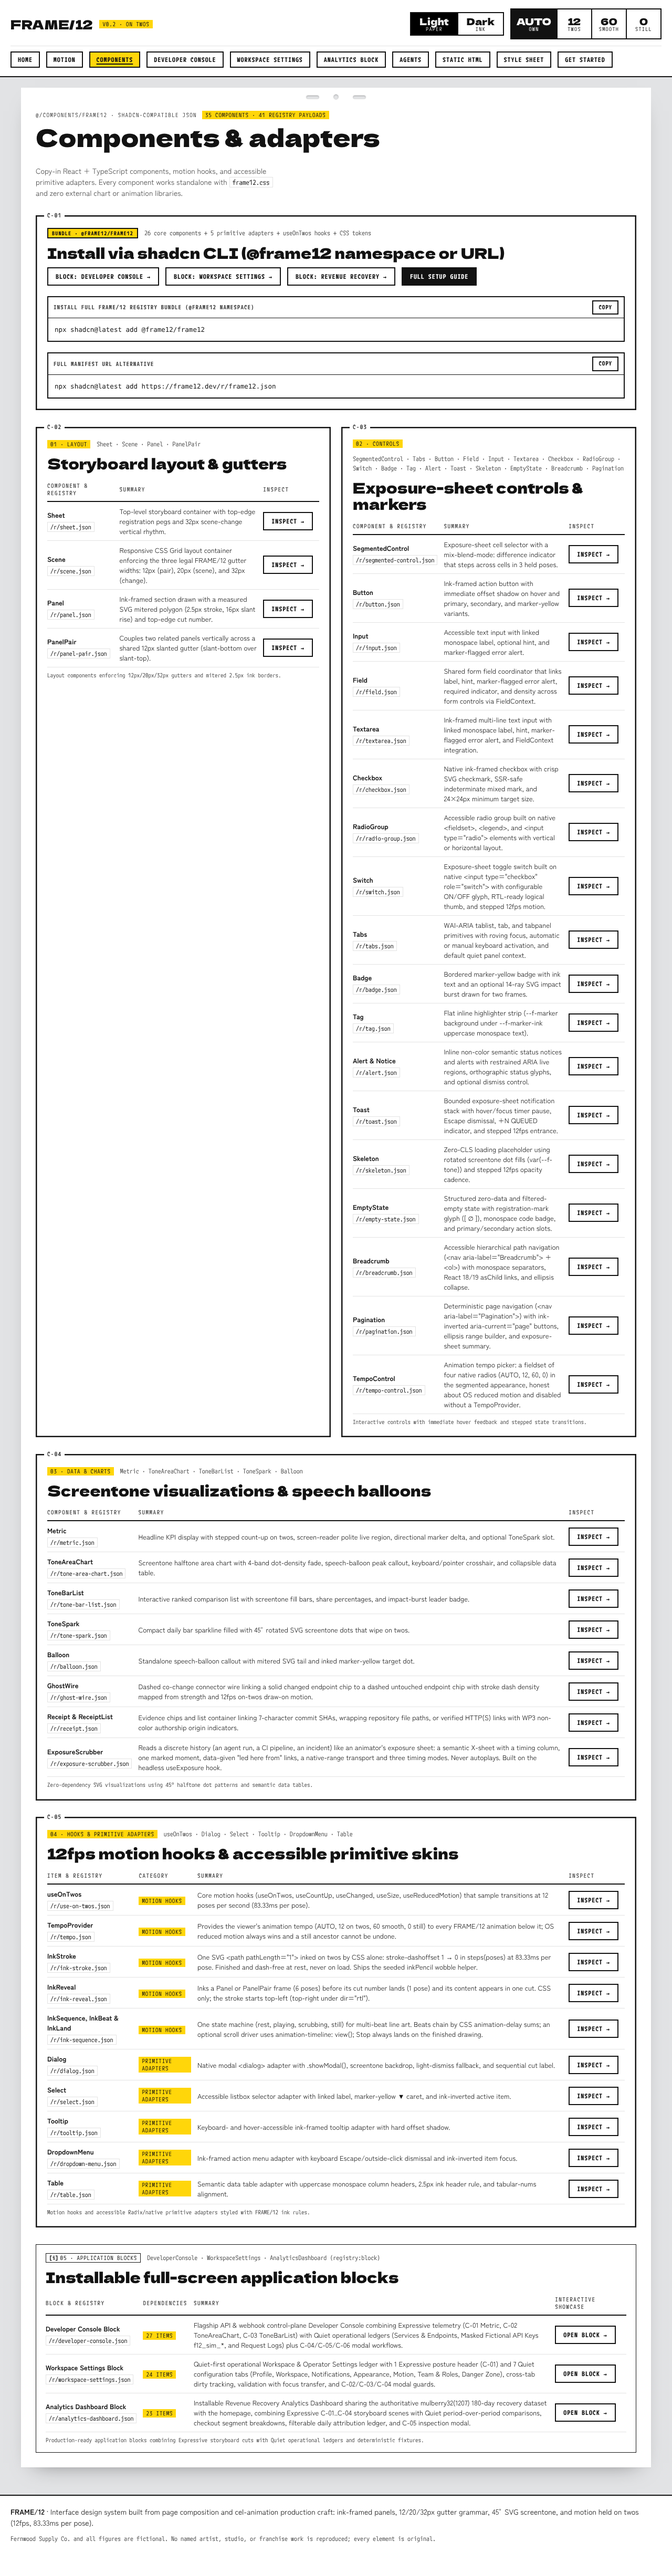
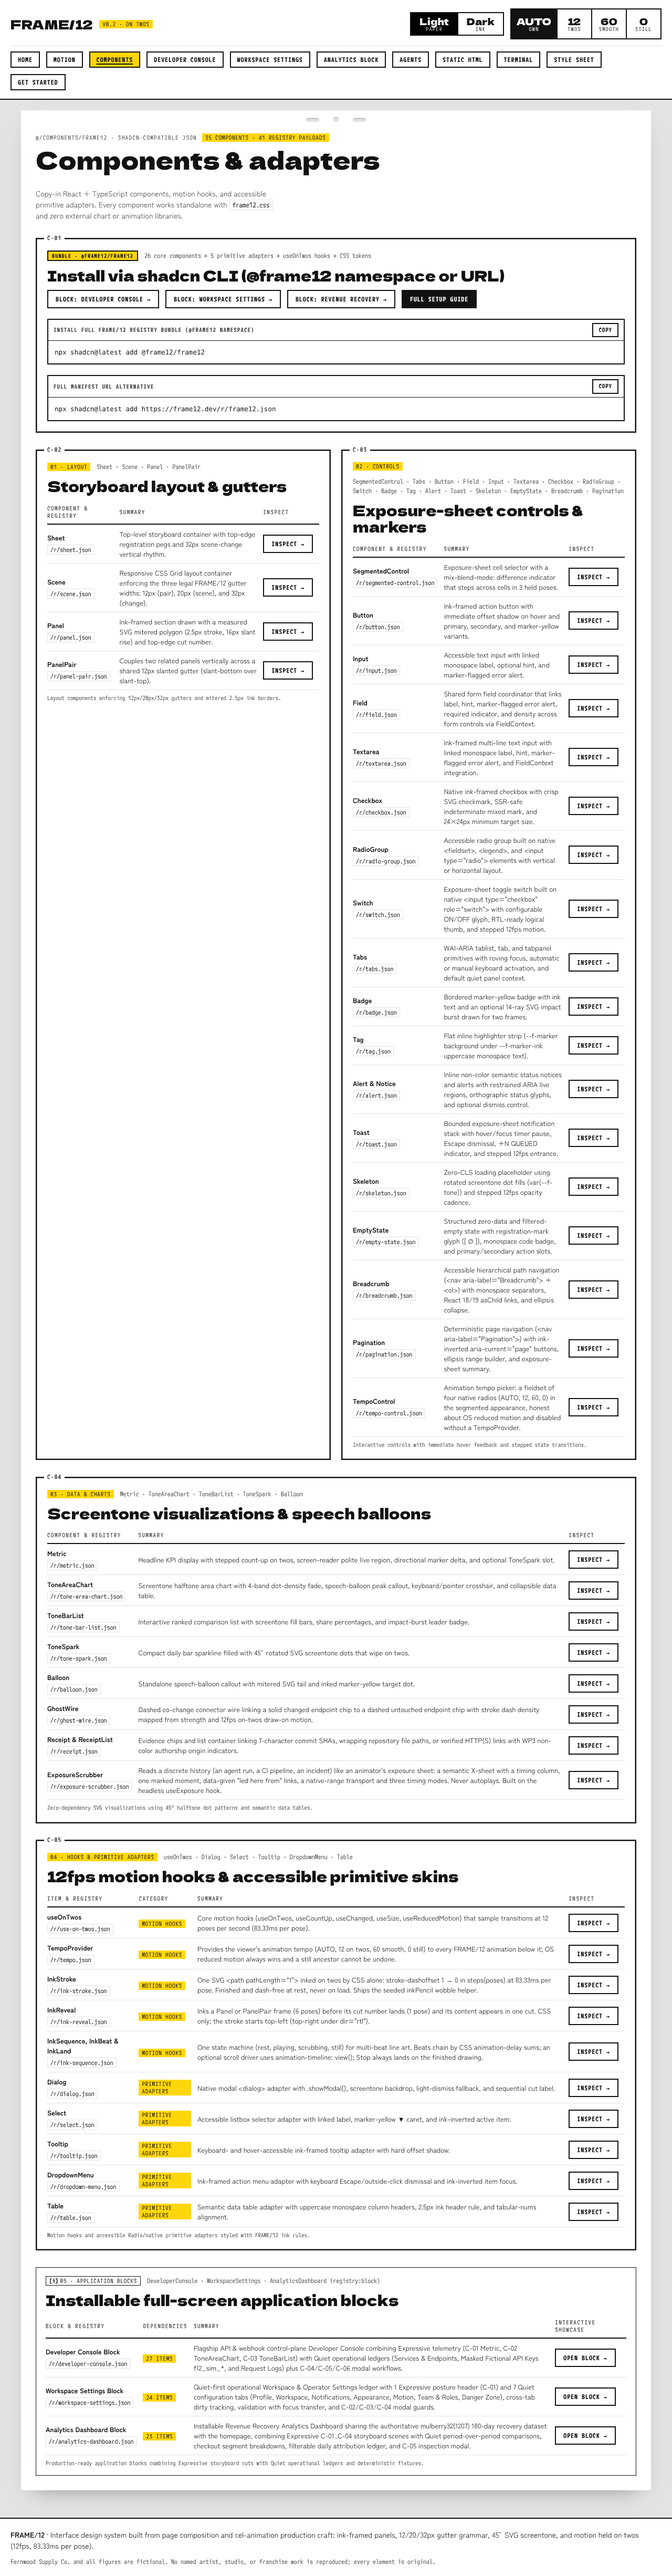
feat(site): a real recorded CI run on /components/exposure-scrubber; refresh README screenshots
The ExposureScrubber page's CI demo was a hand-written run labelled
illustrative. It is now a real recording: the build-pipeline reference
app with --break test (examples/build-pipeline/fixtures/break-test.f12rec,
no local paths). Lint and typecheck pass, the test step fails with its
evidence, and the build is skipped. site/scripts/build-terminal-run.mjs
copies it into a small ci-run.generated.json (the demo module is client
code) and checks it for drift. The demo is tagged "Recorded run", its
answer is derived from the events, and the registry check now asserts
that run end points at the failing test cut and the marker is its
finding.

The README screenshots (docs/images/site-*.png) are regenerated by
site-verify and now show the Terminal nav item.

Claude-Session: https://claude.ai/code/session_01VPVGjB9pgS4CG4YCyY1oDz

Changed region(s): [[0.0625, 0.1242, 0.9375, 0.9628], [0.0, 0.0, 1.0, 0.2795]]

diff --git a/site/src/lib/exposure-demo-data.ts b/site/src/lib/exposure-demo-data.ts
@@ -2,18 +2,20 @@
 // Pure and deterministic (no Date.now, no locale), so server and first client render match.
 // The agent-run demo lives in exposure-agent-demo.ts and is built on the server only.
 //
-// CI RUN: ILLUSTRATIVE. None of this repository's own CI scripts emit terminal events, so this
-//    failing run is written by hand. The events follow the contract exactly
-//    (registry/tests/exposure.mjs validates them with @frame12/terminal's validateEvent) and
-//    are labelled "illustrative" wherever they appear. A real recorded run (Repo Archaeology on
-//    honojs/hono) is on /terminal, through the same ciEventsToFrames below.
+// CI RUN: RECORDED. A real failing run of @frame12/terminal's build-pipeline reference app with
+//    `--break test`, recorded with `--record` (packages/terminal/examples/build-pipeline/fixtures/
+//    break-test.f12rec, copied into ci-run.generated.json by site/scripts/build-terminal-run.mjs).
+//    Lint and typecheck pass, the test step fails, and the build is skipped. Nothing is edited.
 import type { ExposureFrame } from '@/components/frame12';
+import ciRun from './ci-run.generated.json';
 
 export interface ExposureDemo {
   id: string;
   title: string;
   label: string;
   illustrative: boolean;
+  /** True when the data is a recorded run (a `.f12rec`), not fixtures. */
+  recorded?: boolean;
   source: string;
   frames: ExposureFrame[];
   /** The raw log, one record per line, exactly what the sheet was built from (redacted). */
@@ -25,41 +27,17 @@ export interface ExposureDemo {
   defaultValue?: string;
 }
 
-// ------------------------------------------------------------------------------- CI run (illustrative)
+// ------------------------------------------------------------------------------- CI run (recorded)
 /** A @frame12/terminal v1 event, as far as the frames need it. */
 export type CiEvent = Record<string, unknown> & { type: string; seq: number; ts: string; id: string };
 
-const RUN = 'ci-illustrative-001';
-const base = (type: string, seq: number, ts: string, id: string) => ({ schemaVersion: 1, type, runId: RUN, seq, ts, id });
-
-/** ILLUSTRATIVE terminal events in the @frame12/terminal v1 contract (not a captured run). */
-export const CI_ILLUSTRATIVE_EVENTS: CiEvent[] = [
-  { ...base('run-start', 1, '2026-11-10T09:00:00.000Z', 'run'), title: 'npm test (illustrative)', command: 'npm test' },
-  { ...base('scene-start', 2, '2026-11-10T09:00:00.050Z', 'scene-checks'), scene: 'checks', title: 'Repository checks' },
-  { ...base('cut-start', 3, '2026-11-10T09:00:00.100Z', 'cs-sync'), cut: 'sync', title: 'sync:check', scene: 'checks' },
-  { ...base('cut-end', 4, '2026-11-10T09:00:01.900Z', 'ce-sync'), cut: 'sync', status: 'ok', summary: '64 files + 49 registry payloads verified', durationMs: 1800 },
-  { ...base('cut-start', 5, '2026-11-10T09:00:02.000Z', 'cs-doc'), cut: 'doc', title: 'doc:check', scene: 'checks' },
-  { ...base('warning', 6, '2026-11-10T09:00:03.200Z', 'w-doc'), cut: 'doc', message: 'catalog entry has no preview screenshot yet', code: 'doc-preview' },
-  { ...base('cut-end', 7, '2026-11-10T09:00:04.100Z', 'ce-doc'), cut: 'doc', status: 'warning', summary: '37 catalog entries, 1 warning', durationMs: 2100 },
-  { ...base('cut-start', 8, '2026-11-10T09:00:04.200Z', 'cs-lint'), cut: 'lint', title: 'lint:frame12', scene: 'checks' },
-  {
-    ...base('finding', 9, '2026-11-10T09:00:05.400Z', 'f-marker'),
-    cut: 'lint',
-    finding: {
-      id: 'marker-misuse-1',
-      title: 'Marker yellow used as a text color',
-      status: 'danger',
-      prominence: 'hero',
-      subject: [{ kind: 'file', label: 'registry/ui/example-badge.tsx' }],
-      summary: 'rule marker-misuse: --f-marker may only be a background under --f-marker-ink',
-    },
-  },
-  { ...base('cut-end', 10, '2026-11-10T09:00:05.900Z', 'ce-lint'), cut: 'lint', status: 'error', summary: '1 violation', durationMs: 1700 },
-  { ...base('cut-start', 11, '2026-11-10T09:00:06.000Z', 'cs-unit'), cut: 'unit', title: 'registry unit tests', scene: 'checks' },
-  { ...base('cut-end', 12, '2026-11-10T09:00:06.000Z', 'ce-unit'), cut: 'unit', status: 'skipped', summary: 'skipped after a failed check' },
-  { ...base('scene-end', 13, '2026-11-10T09:00:06.050Z', 'se-checks'), scene: 'checks' },
-  { ...base('run-end', 14, '2026-11-10T09:00:06.100Z', 'run-end'), status: 'failed', error: 'lint:frame12 failed' },
-];
+/** The recorded run's events, in order (the `.f12rec` header line dropped). */
+export const CI_RECORDED_EVENTS: CiEvent[] = (ciRun as { recordingNdjson: string }).recordingNdjson
+  .trim()
+  .split('\n')
+  .slice(1)
+  .map((line) => (JSON.parse(line) as { event: CiEvent }).event);
+export const CI_RECORDING_FILE: string = (ciRun as { recordingPath: string }).recordingPath;
 
 /** Maps terminal events to frames: ts → at; findings and warnings → status; cuts → labels.
  * Causes only from the contract's own links (an event's `cut` → that cut's start; a cut's end
@@ -146,21 +124,25 @@ export function ciEventsToFrames(events: readonly CiEvent[]): ExposureFrame[] {
 }
 
 export function buildCiRunDemo(): ExposureDemo {
-  const frames = ciEventsToFrames(CI_ILLUSTRATIVE_EVENTS);
-  const hero = CI_ILLUSTRATIVE_EVENTS.find(
-    (e) => e.type === 'finding' && (e.finding as { prominence?: string }).prominence === 'hero',
-  );
+  const events = CI_RECORDED_EVENTS;
+  const frames = ciEventsToFrames(events);
+  const runId = String(events[0]?.runId ?? '');
+  const hero = events.find((e) => e.type === 'finding' && (e.finding as { prominence?: string }).prominence === 'hero');
+  const failedCut = events.find((e) => e.type === 'cut-end' && e.status === 'error');
+  const failedNo = frames.findIndex((f) => f.id === failedCut?.id);
+  const cutLabel = failedNo >= 0 ? frames[failedNo]!.label.split(' · ')[0] : '';
+  const finding = hero?.finding as { title: string; receipts?: { value: string }[] } | undefined;
   return {
     id: 'ci-run',
-    title: 'CI / terminal run (illustrative)',
-    label: 'CI run ci-illustrative-001 replay (illustrative)',
-    illustrative: true,
-    source: 'ILLUSTRATIVE: @frame12/terminal v1 events written by hand (no script here emits them)',
+    title: 'CI / terminal run (recorded)',
+    label: `CI run ${runId} replay (recorded)`,
+    illustrative: false,
+    recorded: true,
+    source: `RECORDED: the build-pipeline reference app with --break test (${CI_RECORDING_FILE.split('/').pop()})`,
     frames,
-    rawLog: CI_ILLUSTRATIVE_EVENTS.map((e) => JSON.stringify(e)).join('\n'),
+    rawLog: events.map((e) => JSON.stringify(e)).join('\n'),
     question: 'Which earlier step led to the failure?',
-    answer:
-      'The lint:frame12 cut (C-03): its finding “Marker yellow used as a text color” ends the cut with an error, and run end names that failure. The doc:check warning before it is unrelated to the failure.',
+    answer: `The test step (${cutLabel}): it ends with an error, and its finding “${finding?.title ?? ''}” names the failing test and its evidence (${(finding?.receipts ?? []).map((r) => r.value).join('; ')}). Lint and typecheck passed before it; the build was skipped because of it, and run end reports the failure.`,
     primaryMarker: hero?.id,
     defaultValue: frames[frames.length - 1]?.id,
   };

diff --git a/site/src/components/exposure-demos.tsx b/site/src/components/exposure-demos.tsx
@@ -16,7 +16,7 @@ function renderDemoFrame(frame: ExposureFrame, _index: number, ctx: { scrubbing:
 }
 
 /**
- * A compact scrubber for the light/dark preview panels (the illustrative CI run). The page renders
+ * A compact scrubber for the light/dark preview panels (the recorded CI run). The page renders
  * one per theme, so the theme is part of its accessible name: two landmarks with the same name
  * cannot be told apart (axe landmark-unique).
  */
@@ -43,7 +43,13 @@ function DemoPair({ demo, idPrefix }: { demo: ExposureDemo; idPrefix: string }) 
       <Panel label={`${demo.title}: exposure sheet`}>
         <div className="f12-stack-pair">
           <div className="f12-row-pair">
-            {demo.illustrative ? <Tag status="warning">Illustrative</Tag> : <Tag status="info">From fixtures</Tag>}
+            {demo.illustrative ? (
+              <Tag status="warning">Illustrative</Tag>
+            ) : demo.recorded ? (
+              <Tag status="info">Recorded run</Tag>
+            ) : (
+              <Tag status="info">From fixtures</Tag>
+            )}
             <span className="f12-mono-note">{demo.source}</span>
           </div>
           <h2 className="f12-section-title">{demo.title}</h2>

diff --git a/CHANGELOG.md b/CHANGELOG.md
@@ -24,7 +24,7 @@ All notable changes to **FRAME/12** are documented in this file.
 - **`ExposureScrubber` and `useExposure`: read any run like an animator's exposure sheet (F12-09):**
   - **`registry/hooks/use-exposure.ts` (`/r/use-exposure.json`, new):** the headless navigation and playback engine (and the one the planned `TraceTimeline` will reuse; `docs/architecture/exposure-engine.md`). Pure `normalizeExposureFrames` applies the input contract (duplicate ids → `id#2`, empty ids → `#index`, `hold` clamped to 1–12, bad `durationMs`/`at` ignored, only backward `causes` kept, elapsed time from the first valid `at`, never `Date.now()`; array order is the truth) with one development `console.error` per distinct problem, silent in production. `useExposure` owns id-based selection (controlled or uncontrolled, first mode wins), data-change rules (a removed current frame moves to the nearest survivor at its index with reason `data` and pauses playback; appends keep playing), a one-`setTimeout`-per-step clock on `performance.now()` deadlines (never more than one frame per tick; zero timers or rAF while paused or idle), `even` / `elapsed` / `flipbook` timing, pause reasons (`user`, `end`, `scrub`, `hidden`, `data`, `tempo`, `rejected`), the keyboard map, settle detection and a rate-limited announcement stream. No autoplay.
   - **`ExposureScrubber` (`registry/ui/exposure-scrubber.tsx`, `/r/exposure-scrubber.json`, new):** a server-rendered X-sheet (`FRAME` · `ACTION` · `TIMING` · `MARK`; a `<table>` laid out with CSS grid so rows use `content-visibility: auto`, with explicit table roles restored; every row in the DOM up to 5,000 frames), a detail `Panel` (`CURRENT CUT / F-04`, per-frame error boundary, data-only "Led here from" links with a one-level "Back to"), and a transport (Play with `aria-pressed`, a native range with `aria-valuetext`, rate `SegmentedControl`, timing radios; disabled with "Replay needs JavaScript" until hydration). Exactly one primary marker in marker yellow. Container-driven layout (side by side from 640 px; below, transport and panel first and the sheet as a disclosure), forced colors and print styles in `frame12.css`. Works on React 18.3 and 19.
-  - **Docs:** `/components/exposure-scrubber` with two demos and a "find the cause" raw-log panel beside each: an agent run derived only from the `/experiments/agent-approval` fixtures (`apr-misleading-2500` plus the simulated decision history; the tool input's untrusted memo is redacted) and a CI run labelled **illustrative** (written by hand: none of this repository's scripts emit terminal events; the events follow `@frame12/terminal`'s v1 contract and are validated against it). Skill guidance, the components reference, `docs/ACCESSIBILITY.md` (AT sessions `NOT RUN / NEEDS HUMAN`) and a roadmap §6 note.
+  - **Docs:** `/components/exposure-scrubber` with two demos and a "find the cause" raw-log panel beside each: an agent run derived only from the `/experiments/agent-approval` fixtures (`apr-misleading-2500` plus the simulated decision history; the tool input's untrusted memo is redacted) and a CI run: since F12-13 PR 6 a real recording of `@frame12/terminal`'s build-pipeline reference app failing its test step (`--break test`), validated against the v1 contract (it was a hand-written run labelled illustrative before). Skill guidance, the components reference, `docs/ACCESSIBILITY.md` (AT sessions `NOT RUN / NEEDS HUMAN`) and a roadmap §6 note.
   - **Tests:** `registry/tests/exposure.mjs` (input contract, controlled state and every callback reason, data mutation with a two-rows-per-change render counter, timing on Playwright's fake clock, lifecycle, keyboard, pointer, announcements, causes/markers/error boundary, axe matrix, forced colors, zoom, SSR/hydration on React 18.3 and 19, no-JS, HTML bytes per row, cross-engine accessibility-tree snapshots with `BROWSERS=`); `registry/tests/flash-safety.mjs` adds flipbook at 4×; `registry/scripts/measure-exposure-perf.mjs` (synthetic interaction-to-next-paint, not field INP).
 - **Tempo: one motion preference for the whole system (F12-08):** `auto` (AUTO, each component's own motion), `twos` (12, on twos), `ones` (60, smooth) and `still` (0, no non-essential motion). An accessibility feature first, a style choice second.
   - **`registry/hooks/use-tempo.ts` (`/r/use-tempo.json`, new):** `type Tempo`, `TEMPOS`, `isTempo`, `normalizeTempo`, the pure `resolveMotion({ base, tempo, ancestorStill, reduced })`, `TempoContext`, `useTempo()`, `useResolvedMotion(base)` and `useReducedMotion()` (moved here; `use-on-twos` re-exports it, so existing imports keep working). Precedence: OS reduced motion → cut; `still` here or in any ancestor → cut; an explicit/variant/default `cut` stays cut (tempo never turns motion on); `twos` → stepped; `ones` → smooth; `auto` → the component's own motion. Invalid values (a stored `"fast"`) read as `auto`. Pointer tracking, drag, scroll, typing and focus movement are never stepped or delayed.

diff --git a/packages/terminal/examples/README.md b/packages/terminal/examples/README.md
@@ -64,6 +64,9 @@ A failing step ends its cut as `error` and becomes a `danger` finding. Its recei
 evidence: the failing test names and the assertion's expected and actual values, or the lint or
 syntax error. They're a keypress away in the live view's Inspector. Later steps are skipped.
 
+**Recording.** `fixtures/break-test.f12rec` is a real run with `--break test --record` (no local
+paths). It is the CI run on frame12.dev's `/components/exposure-scrubber` page.
+
 ## Agent approval
 
 ```sh
